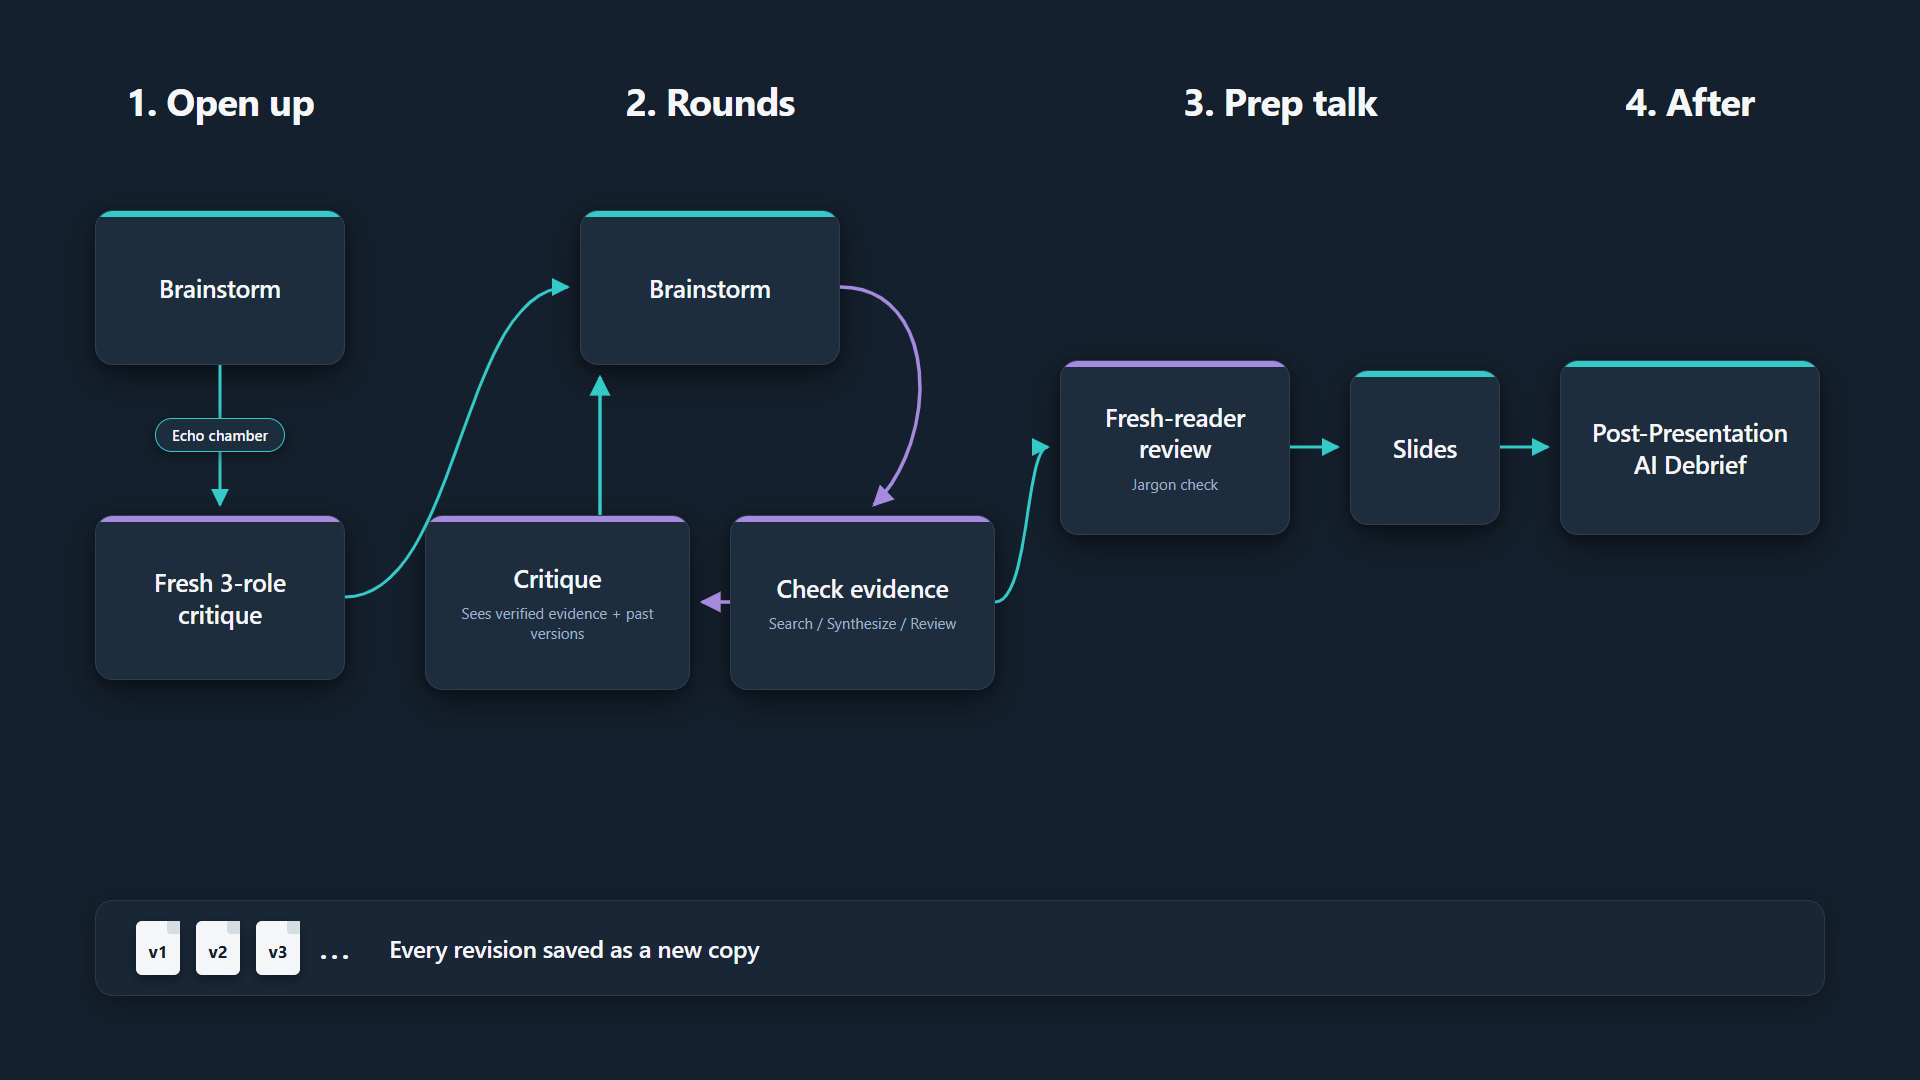
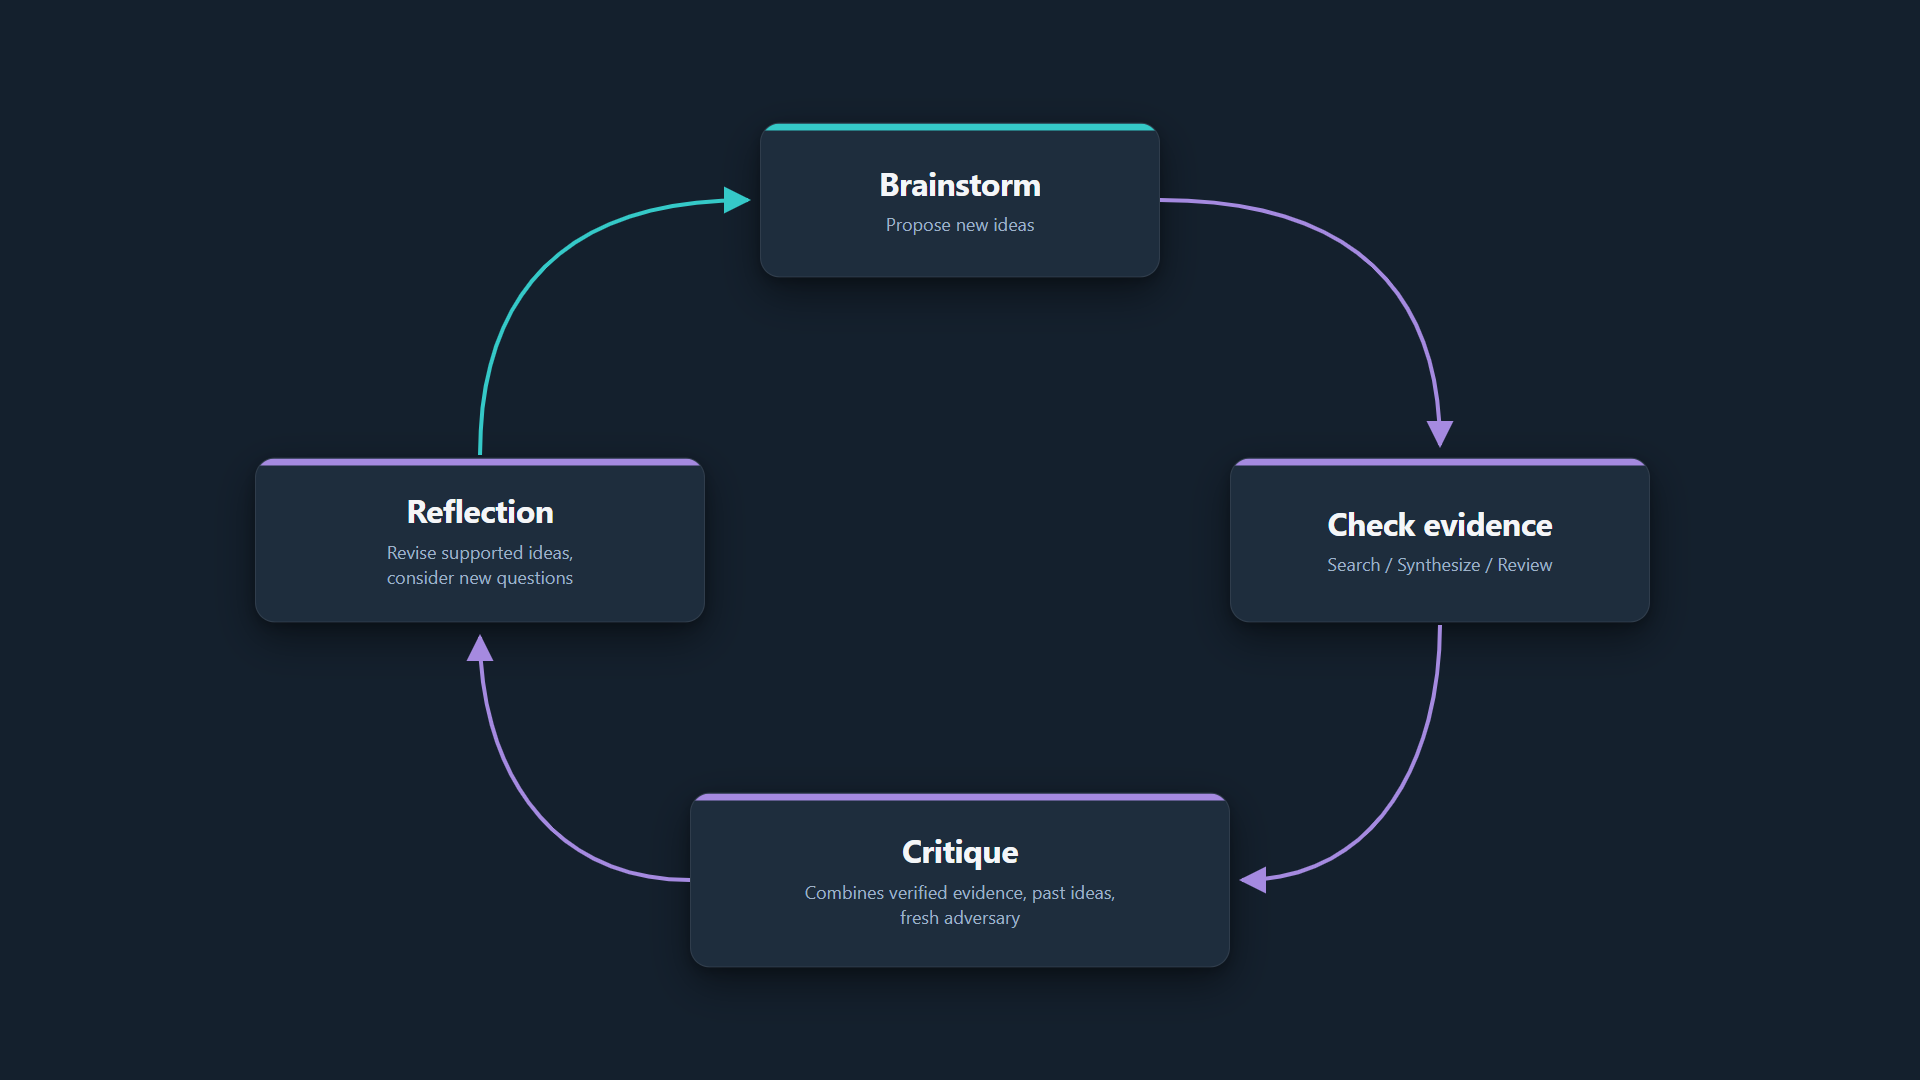
feat(website): focus idea-to-talk illustration on 4-step brainstorming cycle

diff --git a/content/blog/ai_idea_to_talk/index.md b/content/blog/ai_idea_to_talk/index.md
@@ -18,7 +18,7 @@ Rather than start over, I wondered what a development professional would say abo
 
 The AI models I used brought useful challenges and ideas, but also their own biases and mistakes. What helped most was changing my starting question. Rather than asking whether an impact evaluation result would hold up in a new place, I began by asking when a practitioner would realistically seek out that kind of evidence, how they would find it and fold it into their planning, and what a useful set of estimates would look like to them. As I refined the proposal, I kept checking it against research papers and reports from think tanks and development organizations. It is still an early-stage plan, but it points in a much more productive direction than where I started.
 
-{{< figure src="process-overview.png" caption="Ideas moved through repeated rounds of brainstorming, evidence checks, and critique, with every revision saved so the path stayed visible." alt="A process diagram in four stages: brainstorming with a fresh three-role critique after an echo chamber, repeated rounds of brainstorming, evidence checking, and critique, a fresh-reader review before the slides, and a debrief after the presentation. A strip beneath shows each revision saved as a new numbered version." >}}
+{{< figure src="process-overview.png" caption="A continuous brainstorming cycle moving from proposing ideas, through evidence checks and adversarial critique, to reflection and new questions." alt="A cyclical diagram showing four connected steps: Brainstorm (propose new ideas), Check evidence (Search / Synthesize / Review), Critique (Combines verified evidence, past ideas, fresh adversary), and Reflection (Revise supported ideas, consider new questions) looping back to Brainstorm." >}}
 
 ## Adopting the end user's point of view
 
